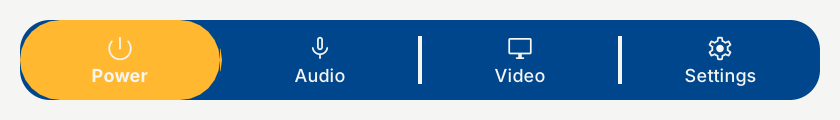
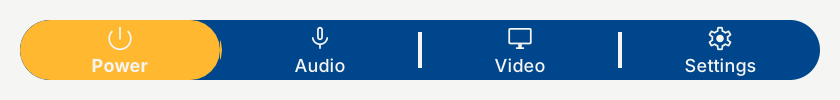
Menu Bar 1.0: default item height 60 so the pill fills the bar
Claude-Session: https://claude.ai/code/session_01Trt3iHTBM9aF7F1AmGmH28

diff --git a/MenuBar/README.md b/MenuBar/README.md
@@ -76,7 +76,7 @@ Everything else is on the Setup page.
 | Menu Count | 2–12 | 4 | Number of menu items |
 | Orientation | Horizontal / Vertical | Horizontal | |
 | Item Width | 30–1000 | 200 | Button width in px |
-| Item Height | 30–600 | 80 | Button height in px |
+| Item Height | 30–600 | 60 | Button height in px |
 | Debug Print | None / Basic / Verbose | None | Basic: start-up, panels, errors. Verbose: every page / layer call. |
 
 ## Pages
